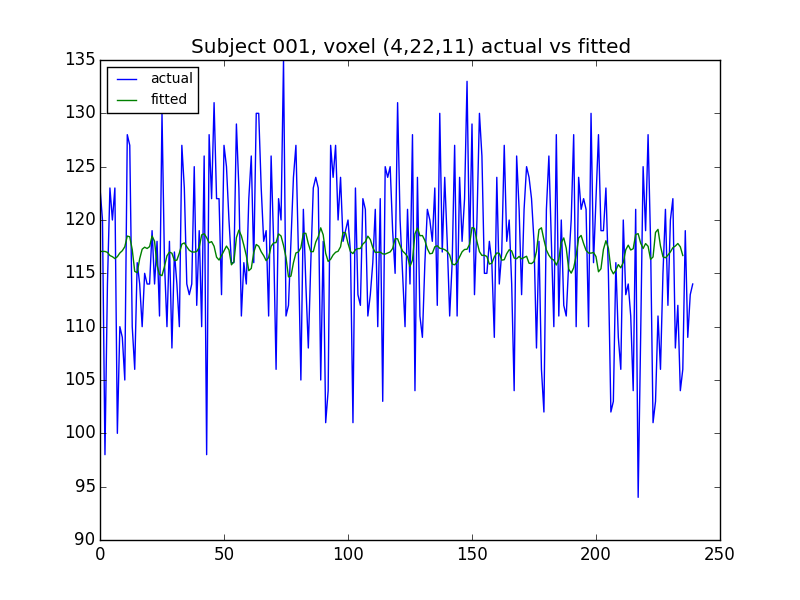
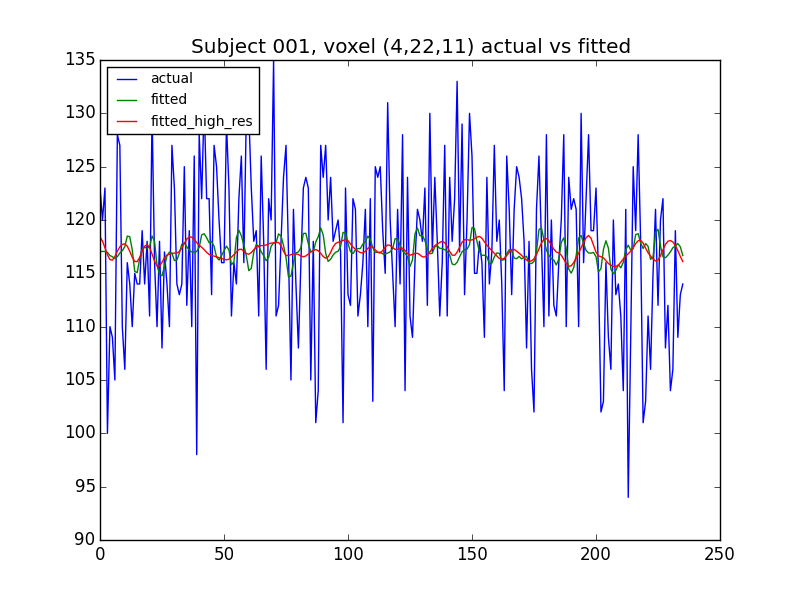
update glm function by using high resolution matrix and smoothing function

Changed region(s): [[0.125, 0.09, 0.875, 0.84]]

diff --git a/code/scripts/glm_script.py b/code/scripts/glm_script.py
@@ -3,23 +3,41 @@ sys.path.append(".././utils")
 import numpy as np
 from glm import *
 from convolution_normal_script import X_matrix
+from convolution_high_res_script import X_matrix_high_res
+from load_BOLD import *
 import nibabel as nib
 import matplotlib.pyplot as plt
-
+from smoothing import *
 
 location_of_plot = "../../plots/"
 location_of_data = "../../data/ds005/sub001/BOLD/task001_run001/"
 
-#get 4_d image data
-img = nib.load(location_of_data+ "bold.nii")
-data = img.get_data()
+# get 4_d image data
+data = load_img(1,1)
 
-beta_4d = glm_multi(data[...,4:],X_matrix)
-MRSS, fitted, residuals = glm_diagnostics(beta_4d, X_matrix, data[...,4:])
+beta_4d = glm_multi(data,X_matrix)
+MRSS, fitted, residuals = glm_diagnostics(beta_4d, X_matrix, data)
+
+# smooth the data and re-run the regression
+data_smooth = smoothing(data,1,range(data.shape[-1]))
+
+beta_4d_smooth = glm_multi(data_smooth,X_matrix)
+MRSS_smooth, fitted_smooth, residuals_smooth = glm_diagnostics(beta_4d_smooth, X_matrix, data_smooth)
+
+
+# use high resolution to create our design matrix
+beta_4d_high_res = glm_multi(data,X_matrix_high_res)
+MRSS_high_res, fitted_high_res, residuals_high_res = glm_diagnostics(beta_4d_high_res, X_matrix_high_res, data)
+
 
 print ("MRSS of multiple regression: "+str(np.mean(MRSS)))
+print ("MRSS of multiple regression by using high resoultion design matrix: "+str(np.mean(MRSS_high_res)))
+print ("MRSS of multiple regression using the smoothed data: "+str(np.mean(MRSS_smooth)))
+
 plt.plot(data[4,22,11], label = "actual")
 plt.plot(fitted[4,22,11], label = "fitted")
+plt.plot(fitted_high_res[4,22,11], label = "fitted_high_res")
+
 plt.title("Subject 001, voxel (4,22,11) actual vs fitted")
 plt.legend(loc = "upper left", fontsize = "smaller")
 plt.savefig(location_of_plot + "glm_fitted.png")

diff --git a/code/utils/outlier.py b/code/utils/outlier.py
@@ -1,0 +1,45 @@
+import numpy as np
+
+
+def vol_std(data):
+    """ Return standard deviation across voxels for 4D array `data`
+    Parameters
+    ----------
+    data : 4D array
+        4D array from FMRI run with last axis indexing volumes. 
+    Returns
+    -------
+    std_values : array shape (T,)
+        One dimensonal array where ``std_values[i]`` gives the standard
+        deviation of all voxels contained in ``data[..., i]``.
+    """
+    T = data.shape[-1]
+    data_2d = np.reshape(data, (-1, T))
+    return np.std(data_2d, axis=0)
+
+
+def iqr_outliers(arr_1d, iqr_scale=1.5):
+    """ Return indices of outliers identified by interquartile range
+    Parameters
+    ----------
+    arr_1d : 1D array
+        One-dimensional numpy array, from which we will identify outlier
+        values.
+    iqr_scale : float, optional
+        Scaling for IQR to set low and high thresholds.  Low threshold is given
+        by 25th centile value minus ``iqr_scale * IQR``, and high threshold id
+        given by 75 centile value plus ``iqr_scale * IQR``.
+    Returns
+    -------
+    outlier_indices : array
+        Array containing indices in `arr_1d` that contain outlier values.
+    lo_hi_thresh : tuple
+        Tuple containing 2 values (low threshold, high thresold) as described
+        above.
+    """
+    pct_25, pct_75 = np.percentile(arr_1d, [25, 75])
+    iqr = pct_75 - pct_25
+    lo_thresh = pct_25 - iqr * iqr_scale
+    hi_thresh = pct_75 + iqr * iqr_scale
+    is_outlier = (arr_1d < lo_thresh) | (arr_1d > hi_thresh)
+    return np.nonzero(is_outlier)[0], (lo_thresh, hi_thresh)

diff --git a/code/scripts/convolution_high_res_script.py b/code/scripts/convolution_high_res_script.py
@@ -98,10 +98,10 @@ np.savetxt(location_of_txt+'ds005_sub001_t1r1_conv4_high_res.txt', tr_hemo_dist)
 
 # create the matrix using np.convolve and plot them
 n_vols = data.shape[-1]
-X_matrix = np.ones((n_vols,5)) #design matrix (1 at the 0th column)
+X_matrix_high_res = np.ones((n_vols,5)) #design matrix (1 at the 0th column)
 condition = [tr_hemo_task[...,4:], tr_hemo_gain[...,4:], tr_hemo_loss[...,4:], tr_hemo_dist[...,4:]]
 for i,name in enumerate(condition):
-	X_matrix[:,i+1] = condition[i]
+	X_matrix_high_res[:,i+1] = condition[i]
 
 
 
